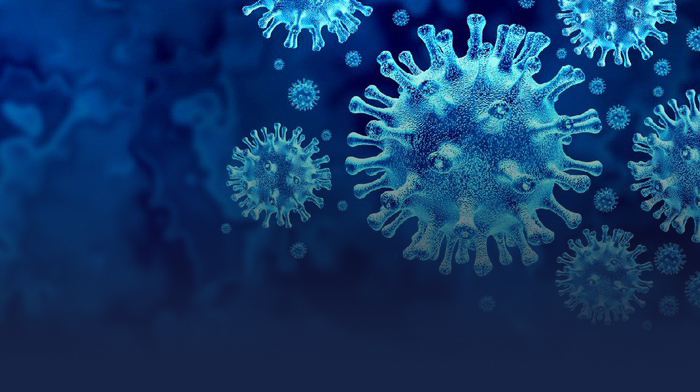
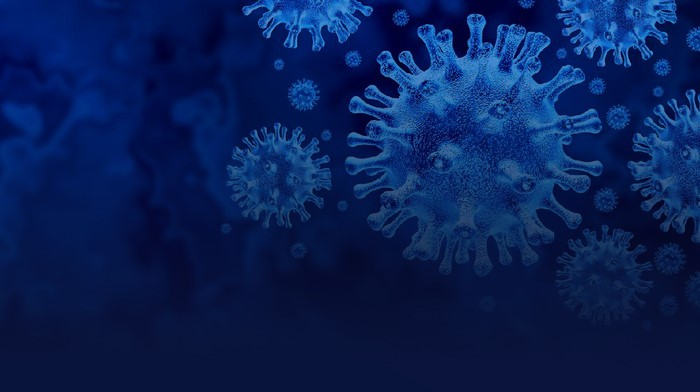
Nambahin penjelasan langkah pencegahan

diff --git a/src/main/resources/templates/langkah-pencegahan.html b/src/main/resources/templates/langkah-pencegahan.html
@@ -4,51 +4,96 @@
     <title>CoronAware: Langkah Pencegahan</title>
     <link rel="stylesheet" th:href="@{langkahpencegahan.css}">
     <link href="https://fonts.googleapis.com/css2?family=Fredoka+One&display=swap" rel="stylesheet">
+    <div class="box">
+        <span></span>
+        <span></span>
+        <span></span>
+    </div>
 </head>
 <body>
     <section id="container">
         <section id="header1">
             <div id="header2">
                 <div id="jdl1"> Jangan lupa untuk tetap <br> menerapkan protokol kesehatan </div>
-                <div id="jdl2"> Scroll kebawah untuk melihat protokol kesehatan yang harus dilakukan </div>
+                <div id="jdl2"> Scroll down untuk melihat protokol kesehatan yang harus dilakukam <br>
+                Klik gambar untuk penjelasan lebih lengkap dari website terpercaya</div>
             </div>
         </section>
         <div id="header3">
-            <h1> Langkah-langkah Pencegahan Virus Corona </h1>
+            <h1> Protokol Kesehatan Pencegahan Virus Corona </h1>
         </div>
         <div class="content ctn1">
+
                 <button class="accordion acn1">Mencuci Tangan Dengan Sabun</button>
-                    <div class="panel pnl1"><p>
-                        Membran terluar virus ini terdiri dari lapisan lemak yang mudah larut dalam sabun.
+                    <div class="panel pnl1">
+                        <a href="https://www.who.int/gpsc/5may/How_To_HandWash_Poster.pdf?ua=1" target="_blank">
+                        <img src="./img/washhand.jpg" alt="pencegahan1">
+                        </a>
+                        <p class="tulisan">
+                        Membran terluar virus ini terdiri dari lapisan lemak dan protein. Membran ini mencegah supaya virus
+                            tidak mudah larut dalam air layaknya minyak. Sabun dapat dengan mudah merusak dan melarutkan
+                            lapisan ini. Tanpa membran tersebut, virus akan langsung mati.
                         </p>
                     </div>
-                <button class="accordion acn2">Mencuci Tangan Dengan Sabun</button>
-                <div class="panel pnl2"><p>
-                        Membran terluar virus ini terdiri dari lapisan lemak yang mudah larut dalam sabun.
+
+                <button class="accordion acn2">Memakai Masker</button>
+                <div class="panel pnl2">
+                    <a href="https://www.who.int/emergencies/diseases/novel-coronavirus-2019/advice-for-public/when-and-how-to-use-masks"
+                       target="_blank">
+                    <img src="./img/masker2.jpg" alt="pencegahan2">
+                    </a>
+                    <p class="tulisan">
+                        Masker terbukti efektif dalam mengurangi laju penularan virus Corona. Hal ini karena lapisan dalam masker
+                        yang dapat menyaring titik air yang biasa dikeluarkan lewat batuk dan bersin.
                         </p>
                     </div>
-                <button class="accordion acn3">Mencuci Tangan Dengan Sabun</button>
-                <div class="panel pnl3"><p>
-                        Membran terluar virus ini terdiri dari lapisan lemak yang mudah larut dalam sabun.
+
+                <button class="accordion acn3">Lakukan Social Distancing</button>
+                <div class="panel pnl3">
+                    <a href="https://www.cdc.gov/coronavirus/2019-ncov/prevent-getting-sick/social-distancing.html" target="_blank">
+                    <img src="./img/socialdistancing.png" alt="pencegahan3">
+                    </a>
+                    <p class="tulisan">
+                        Social Distancing dilakukan dengan menjaga jarak setidaknya 2 meter dengan orang lain. Hal lain yang harus
+                        dilakukan ialah menghindari kontak langsung seperti hal yang biasa kita lakukan yaitu berjabat tangan
                         </p>
                     </div>
+
             </div>
             <div class="content ctn2">
-                <button class="accordion acn4">Mencuci Tangan Dengan Sabun</button>
-                <div class="panel pnl4"><p>
-                    Membran terluar virus ini terdiri dari lapisan lemak yang mudah larut dalam sabun.
+                <button class="accordion acn4">Stay at Home</button>
+                <div class="panel pnl4">
+                    <a href="https://www.who.int/news-room/campaigns/connecting-the-world-to-combat-coronavirus/healthyathome"
+                       target="_blank"><img src="./img/stayathome.jpg" alt="pencegahan4">
+                    </a>
+                    <p class="tulisan">
+                    Stay at Home berguna dalam mencegah diri tertular dan menularkan virus ke orang lain. Aktivitas yang bisa
+                        dilakukan ialah seperti bermain gim, belajar, dan lain-lain.
                 </p>
                 </div>
-                    <button class="accordion acn5">Mencuci Tangan Dengan Sabun</button>
-                    <div class="panel pnl5"><p>
-                        Membran terluar virus ini terdiri dari lapisan lemak yang mudah larut dalam sabun.
+
+                <button class="accordion acn5">Hindari Menyentuh Wajah</button>
+                    <div class="panel pnl5">
+                        <a href="https://www.who.int/emergencies/diseases/novel-coronavirus-2019/advice-for-public" target="_blank">
+                        <img src="./img/wajah.jpg" alt="pencegahan5">
+                        </a>
+                        <p class="tulisan">
+                        Mulut dan hidung merupakan salah satu vektor penularan virus Corona. Hal ini karena kedua organ tersebut
+                            merupakan jalan utama untuk masuk ke dalam tubuh manusia.
                     </p>
                     </div>
-                    <button class="accordion acn6">Mencuci Tangan Dengan Sabun</button>
-                    <div class="panel pnl6"><p>
-                        Membran terluar virus ini terdiri dari lapisan lemak yang mudah larut dalam sabun.
+
+                    <button class="accordion acn6">Jangan Berbagi Barang Pribadi</button>
+                    <div class="panel pnl6">
+                        <a href="https://www.alodokter.com/8-benda-ini-tidak-boleh-kamu-pinjamkan-lagi" target="_blank">
+                        <img src="./img/gosokgigi.jpg" alt="pencegahan6">
+                        </a>
+                        <p class="tulisan">
+                        Menjaga barang pribadi itu penting dalam mencegah penularan virus Corona. Barang-barang seperti sikat gigi
+                            handuk dan gelas bisa menjadi vektor penyebaran virus dan bakteri-bakteri lainya.
                     </p>
                     </div>
+
                 </div>
             </section>
         <footer>

diff --git a/src/main/resources/static/langkahpencegahan.css b/src/main/resources/static/langkahpencegahan.css
@@ -7,7 +7,45 @@ body {
     padding: 0;
     height: 100vh;
     font-family: "Roboto", sans-serif;
-    background-color: #162447;
+    background-color: #081647;
+}
+
+.box {
+    position: absolute;
+    top:80%;
+    left: 50%;
+    transform: translate(-50%,-50%);
+}
+.box span {
+    display: block;
+    width: 20px;
+    height: 20px;
+    border-bottom: 1px solid #fff;
+    border-right: 1px solid #fff;
+    transform: rotate(45deg);
+    margin: -10px;
+    animation: animate 2s infinite;
+}
+
+.box span:nth-child(2){
+    animation-delay: -0.2s;
+}
+.box span:nth-child(3){
+    animation-delay: -0.4s;
+}
+
+@keyframes animate {
+    0%{
+        opacity: 0;
+        transform: rotate(45deg) translate(-20px, -20px);
+    }
+    50%{
+        opacity: 1;
+    }
+    100%{
+        opacity: 0;
+        transform: rotate(45deg) translate(20px, 20px);
+    }
 }
 
 footer {
@@ -37,7 +75,7 @@ h1 {
 }
 
 #container {
-    background-color: #162447;
+    background-color: #081647;
     width: 100%;
     margin-left: auto;
     margin-right: auto;
@@ -61,6 +99,7 @@ h1 {
 }
 
 #header3 {
+    margin-top: 5vh;
     margin-left: 40vh;
     margin-right: 40vh;
     text-align: center;
@@ -69,6 +108,12 @@ h1 {
     border-radius: 30px;
     font-weight: bold;
     height: 7vh;
+    transition: 0.4s;
+}
+
+#header3:hover {
+    color: black;
+    transition: 0.4s;
 }
 
 #jdl1 {
@@ -104,6 +149,13 @@ h1 {
     float: left;
     margin-left: 25vh;
 }
+
+.tulisan {
+    padding-right: 20px;
+    padding-left: 20px;
+}
+
+
 .accordion {
     cursor: pointer;
     text-align: center;
@@ -111,8 +163,8 @@ h1 {
     width: 100%;
     height: 11vh;
     border-radius: 30px;
-    border: none;
-    outline: none;
+    border: #ffffff;
+    outline: white;
     transition: 0.4s;
     margin-top: 5vh;
 }
@@ -165,6 +217,21 @@ h1 {
     opacity: 0.6;
     transition: 0.6s;
 
+}
+
+img {
+    border-radius: 50%;
+    margin: 10px 10px;
+    width: 130px;
+    height: 130px;
+    overflow: hidden;
+    opacity: 0.4;
+    transition: 0.6s;
+}
+
+img:hover {
+    opacity: 1.3;
+    transition: 0.6s;
 }
 
 .panel:hover {

diff --git a/src/main/resources/static/Statistik.css b/src/main/resources/static/Statistik.css
@@ -7,7 +7,7 @@ body{
     padding: 0;
     height: 100vh;
     font-family: "Roboto", sans-serif;
-    background-color: #162447;
+    background-color: #081647;
   }
 
   .button-accordion{
@@ -168,7 +168,7 @@ body{
   }
 
   .accordion, .accordion1{
-    background-color: #162447;
+    background-color: #081647;
     font-weight: 600;
     color: #fff;
     cursor: pointer;
